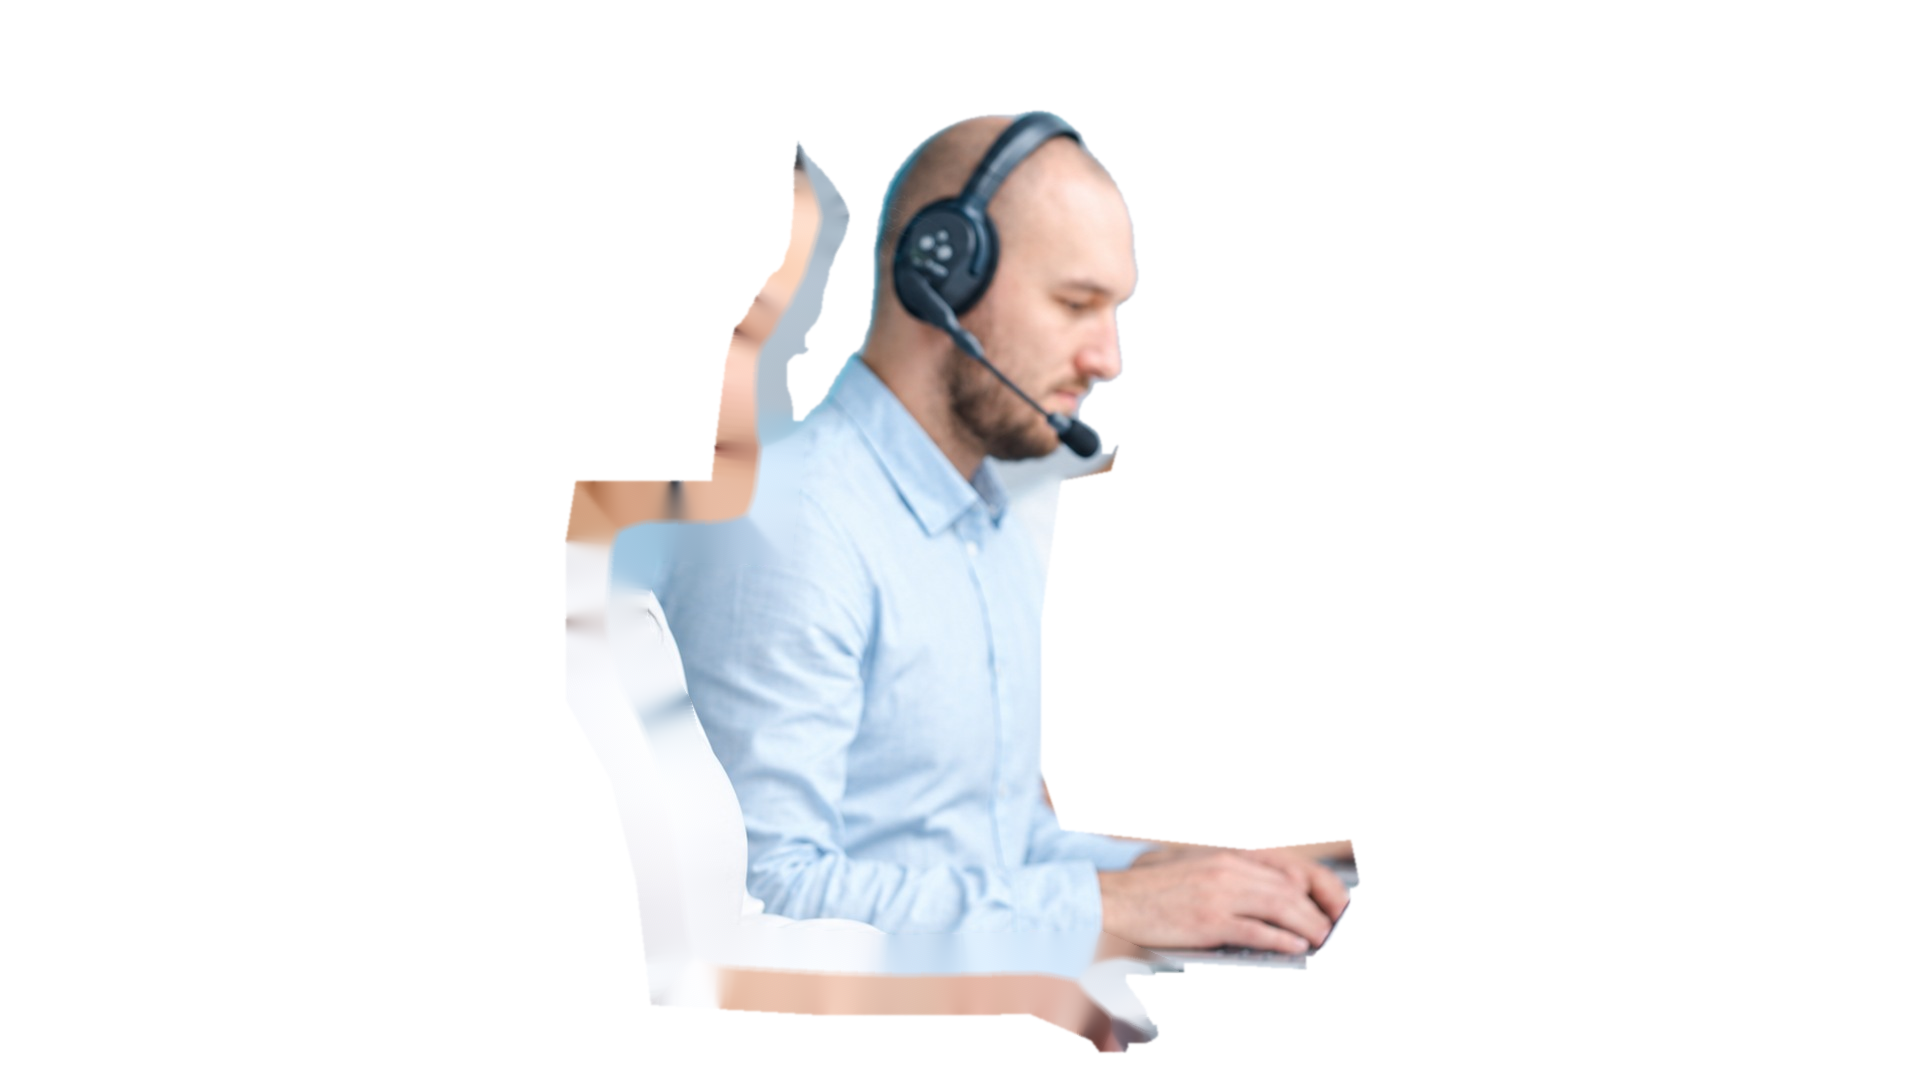
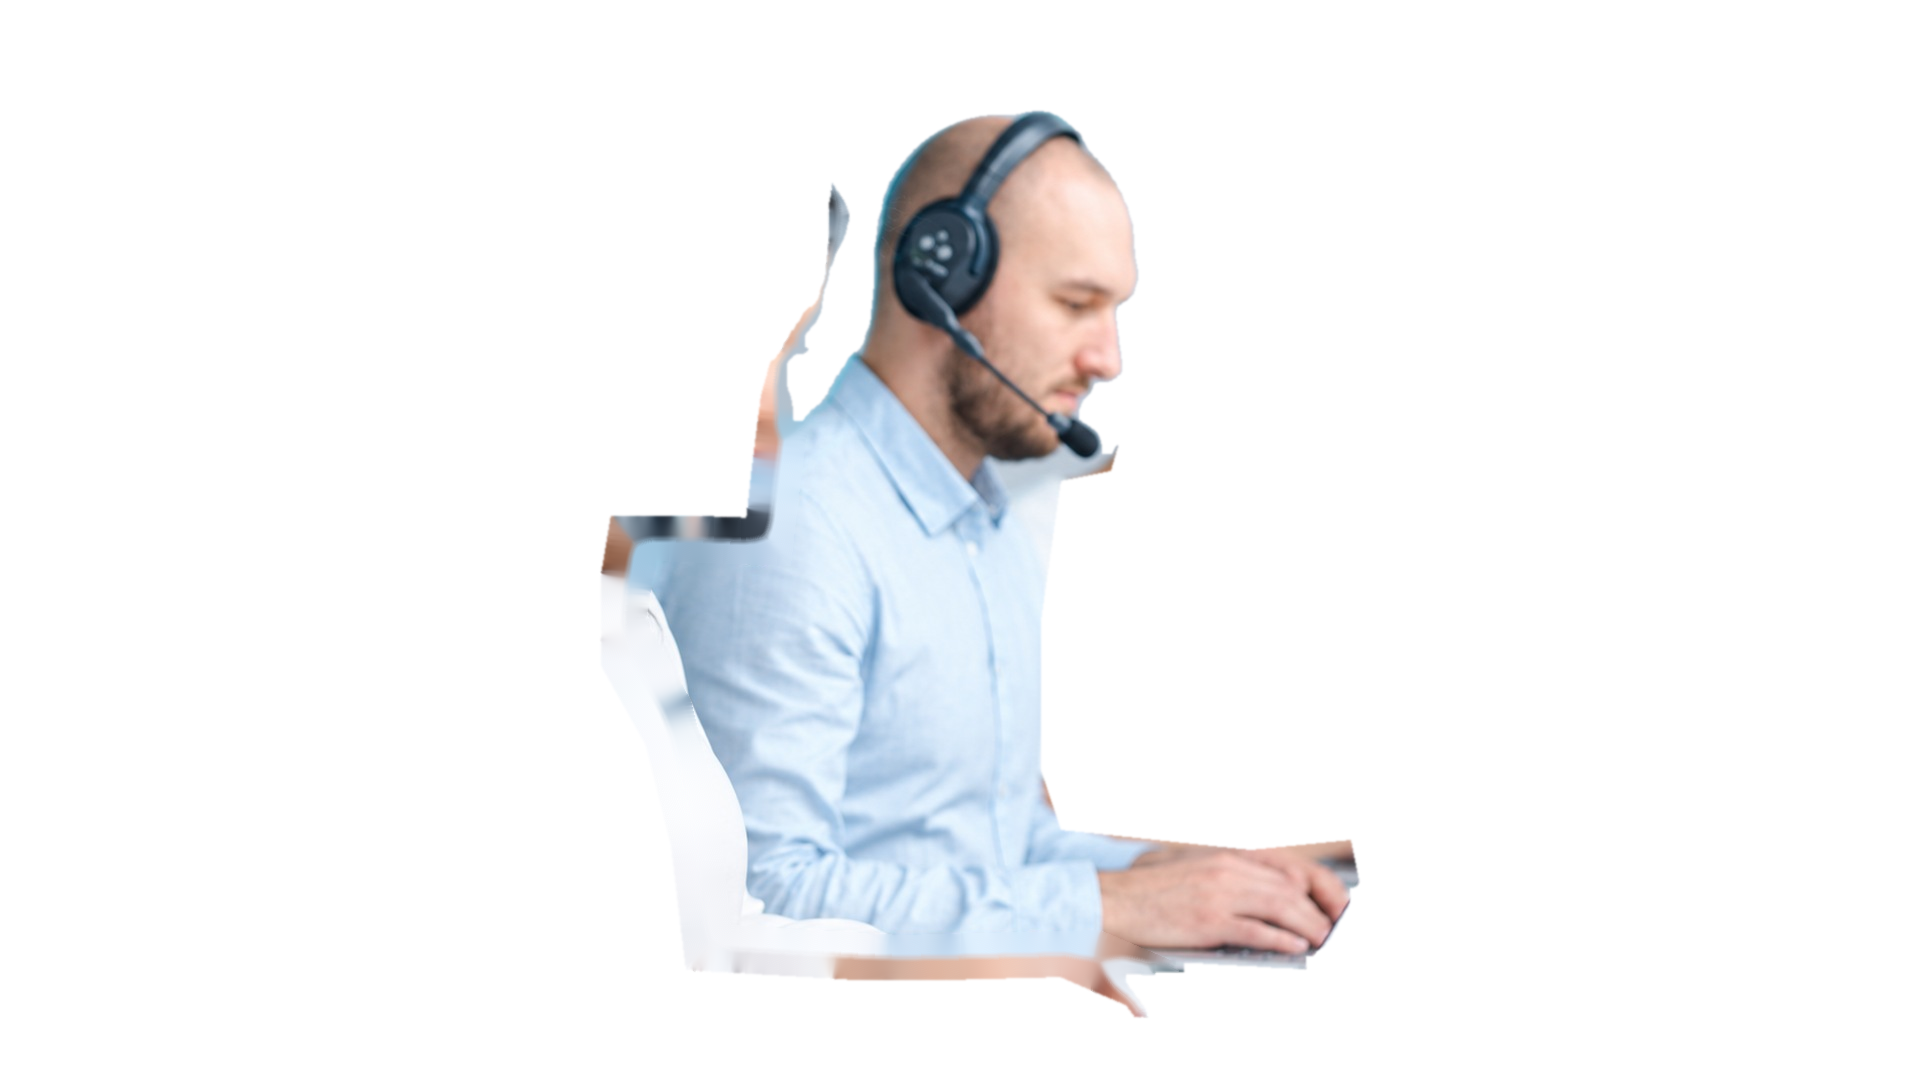
v1 3D: bring finale ribbons in earlier, tighten rear-person extension
Claude-Session: https://claude.ai/code/session_01UqZqJv8Km4hvWmdWuhbuGM

diff --git a/videos/spm-agent-shadows/assets/film3d.js b/videos/spm-agent-shadows/assets/film3d.js
@@ -570,14 +570,14 @@ function renderAt(t) {
       fx.fillStyle = g; fx.beginPath(); fx.arc(x, y, r, 0, Math.PI * 2); fx.fill();
     }
     for (let k = 0; k < 2; k++) {
-      const u = prog(t, 6.1 + k * 0.28, 7.2 + k * 0.28); if (u <= 0 || u >= 1) continue;
+      const u = prog(t, 5.9 + k * 0.28, 7.0 + k * 0.28); if (u <= 0 || u >= 1) continue;
       fx.beginPath(); fx.arc(P[0], P[1], 24 + easeOut(u) * 680, 0, Math.PI * 2);
       fx.strokeStyle = `rgba(220,236,242,${0.5 * (1 - u) * fadeAll})`; fx.lineWidth = 1.3; fx.stroke();
     }
     fx.restore();
   }
   // finale: smoky ribbons swirl to one point, mirrored on a glossy floor
-  const fin = easeInOut(prog(t, 6.2, 7.15));
+  const fin = easeInOut(prog(t, 5.95, 7.05));
   if (fin > 0 && fadeAll > 0) {
     const draw = (alphaMul) => SMOKE.forEach((s) => {
       const c = s.curl, mid = [lerp(s.s[0], P[0], 0.45) + (P[1] - s.s[1]) * c * 0.5, lerp(s.s[1], P[1], 0.45) - (P[0] - s.s[0]) * c * 0.35];

diff --git a/videos/spm-agent-shadows/prep/depth3d.py b/videos/spm-agent-shadows/prep/depth3d.py
@@ -53,7 +53,7 @@ for i,k in enumerate(order):
     m=masks[k].astype(np.uint8)
     nearer=np.zeros_like(m)
     for kk in order[:i]: nearer|=masks[kk].astype(np.uint8)
-    grow=cv2.dilate(m,np.ones((161,161),np.uint8))
+    grow=cv2.dilate(m,np.ones((91,91),np.uint8))
     e=(m|(nearer&grow)).astype(np.uint8)
     fill=(e&(1-m)).astype(np.uint8)
     tex=photo.copy()
